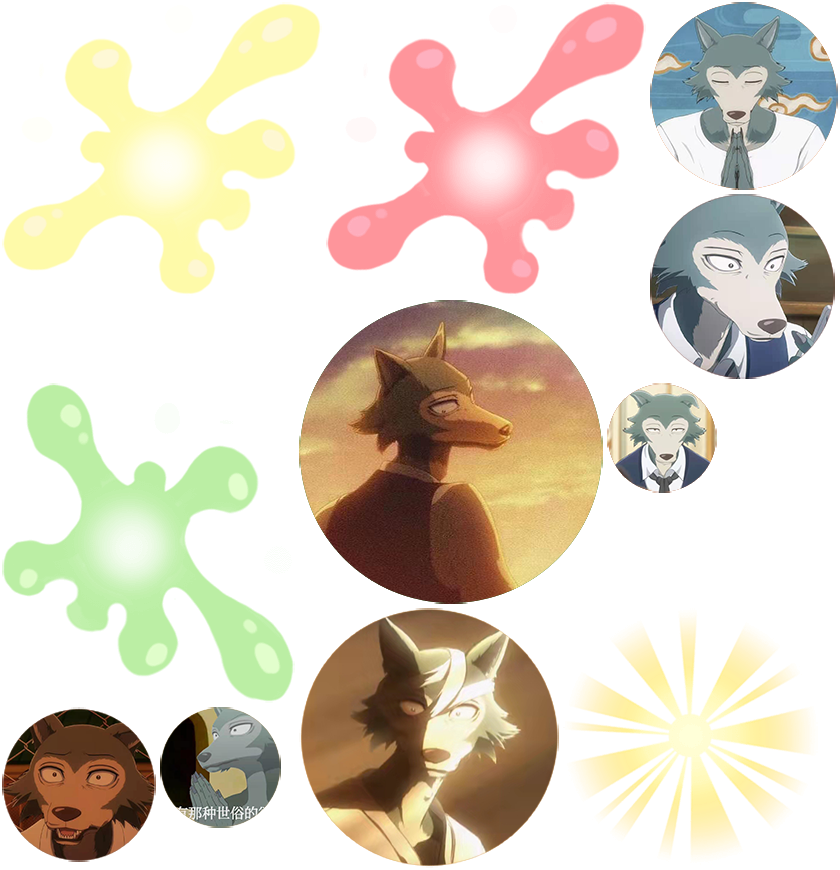
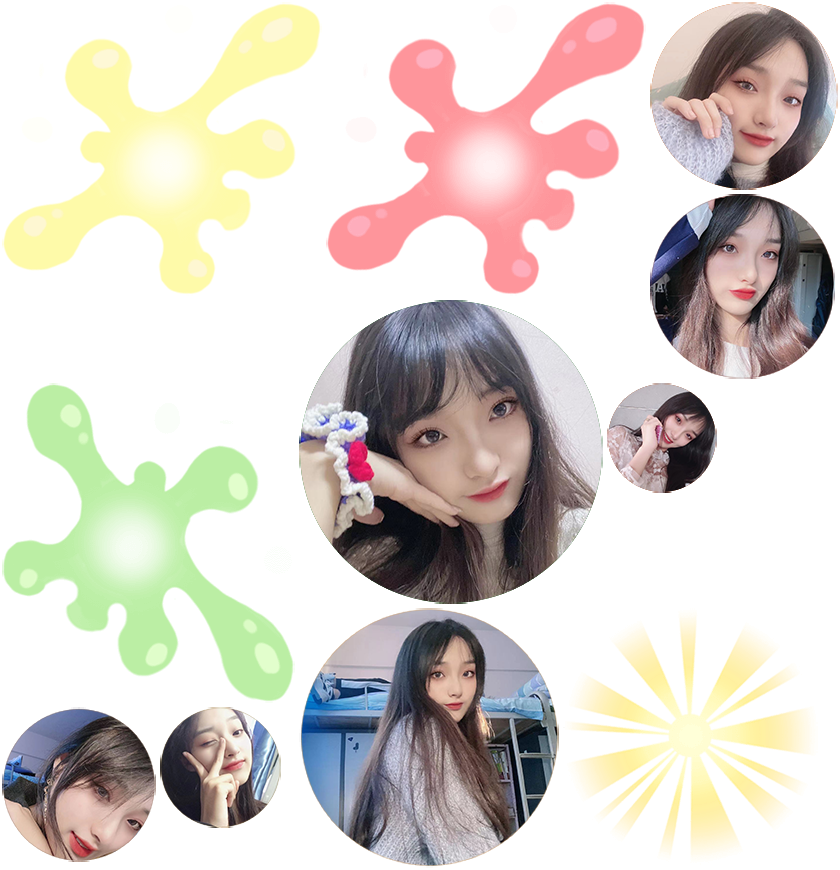
nitial commit

Changed region(s): [[0.0, 0.0, 1.0, 1.0]]

diff --git a/index.html b/index.html
@@ -4,7 +4,7 @@
 <head>
     <meta charset="utf-8">
 
-    <title>合成雷格西</title>
+    <title>合成宋嘉怡</title>
 
     <!--http://www.html5rocks.com/en/mobile/mobifying/-->
     <meta name="viewport" content="width=device-width,user-scalable=no,initial-scale=1, minimum-scale=1,maximum-scale=1" />
@@ -109,7 +109,7 @@
             //        console.log("window.navigator.language",window.navigator.language);
 
             if (window.navigator.language == "zh-CN" || window.navigator.language == "zh-cn") {
-                document.title = "合成雷格西";
+                document.title = "合成宋嘉怡";
             } 
 
 
